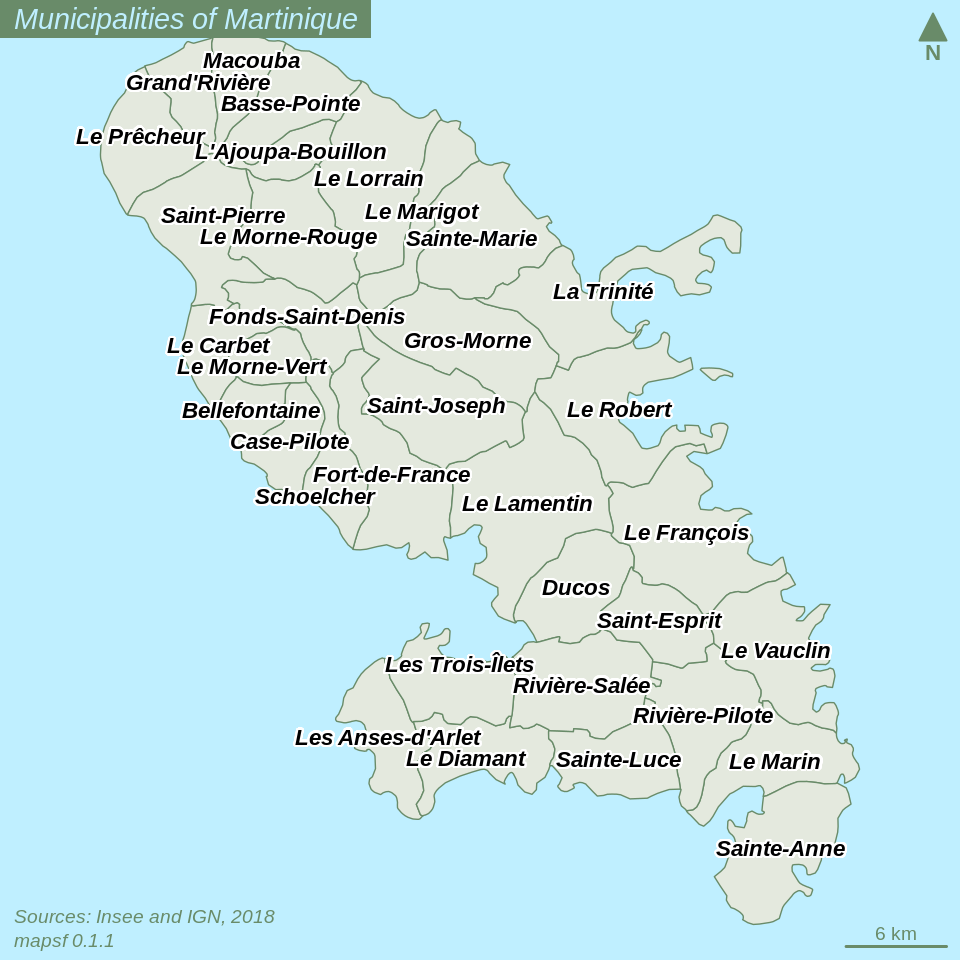
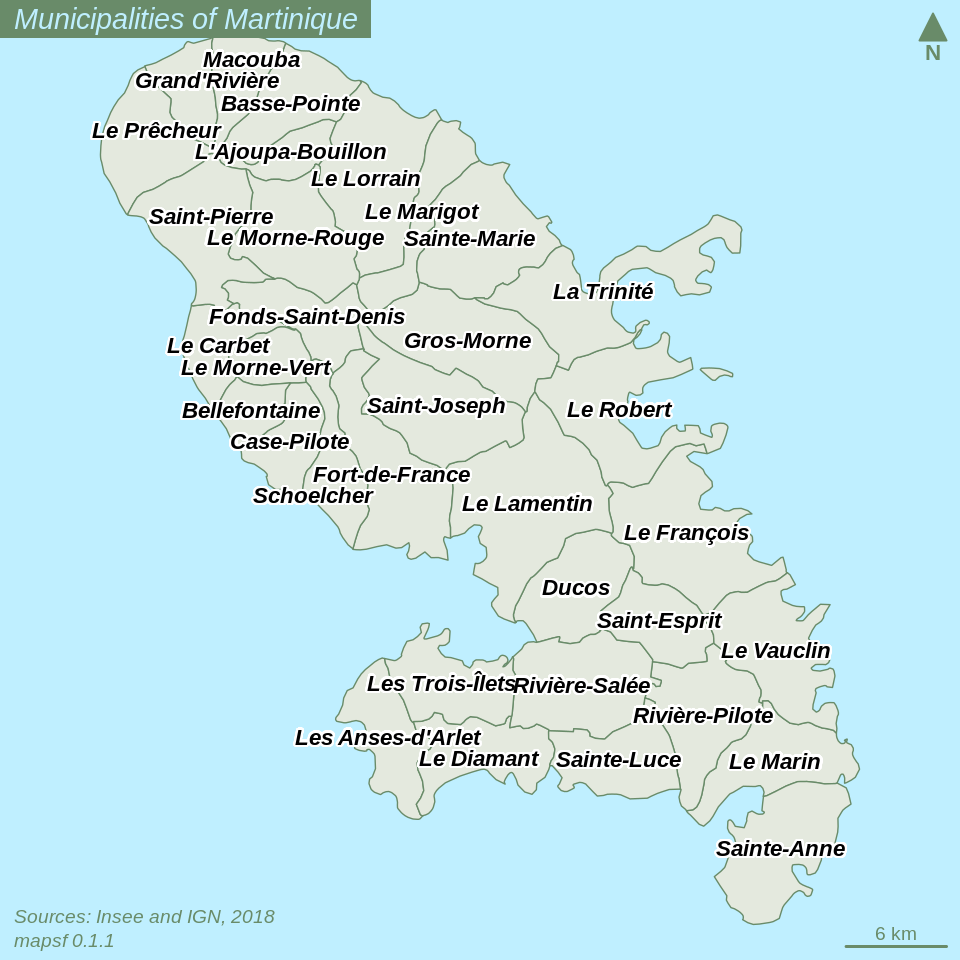
Built site for mapsf: 0.1.1@209afe7

diff --git a/reference/mf_credits.html b/reference/mf_credits.html
@@ -139,7 +139,8 @@
   pos <span class='op'>=</span> <span class='st'>"bottomleft"</span>,
   <span class='va'>col</span>,
   cex <span class='op'>=</span> <span class='fl'>0.6</span>,
-  font <span class='op'>=</span> <span class='fl'>3</span>
+  font <span class='op'>=</span> <span class='fl'>3</span>,
+  bg <span class='op'>=</span> <span class='cn'>NA</span>
 <span class='op'>)</span></pre>
 
     <h2 class="hasAnchor" id="arguments"><a class="anchor" href="#arguments"></a>Arguments</h2>
@@ -164,6 +165,10 @@
     <tr>
       <th>font</th>
       <td><p>font of the credits</p></td>
+    </tr>
+    <tr>
+      <th>bg</th>
+      <td><p>background color</p></td>
     </tr>
     </table>
 

diff --git a/articles/mapsf.html b/articles/mapsf.html
@@ -85,7 +85,7 @@
       <h1 data-toc-skip>mapsf</h1>
                         <h4 class="author">Timothée Giraud</h4>
             
-            <h4 class="date">2021-04-01</h4>
+            <h4 class="date">2021-04-02</h4>
       
       <small class="dont-index">Source: <a href="https://github.com/riatelab/mapsf/blob/master/vignettes/mapsf.Rmd"><code>vignettes/mapsf.Rmd</code></a></small>
       <div class="hidden name"><code>mapsf.Rmd</code></div>
